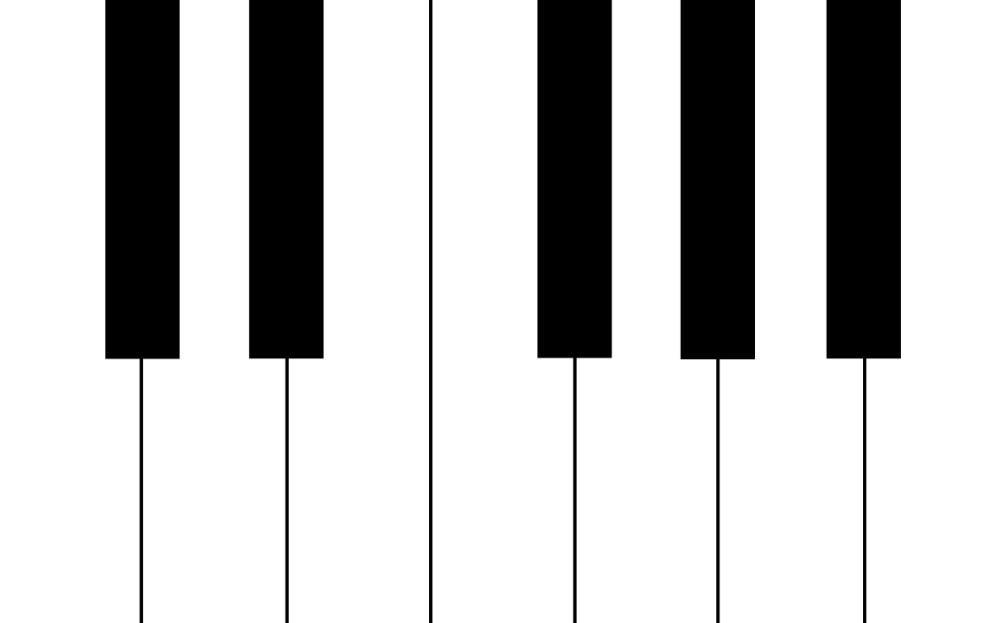
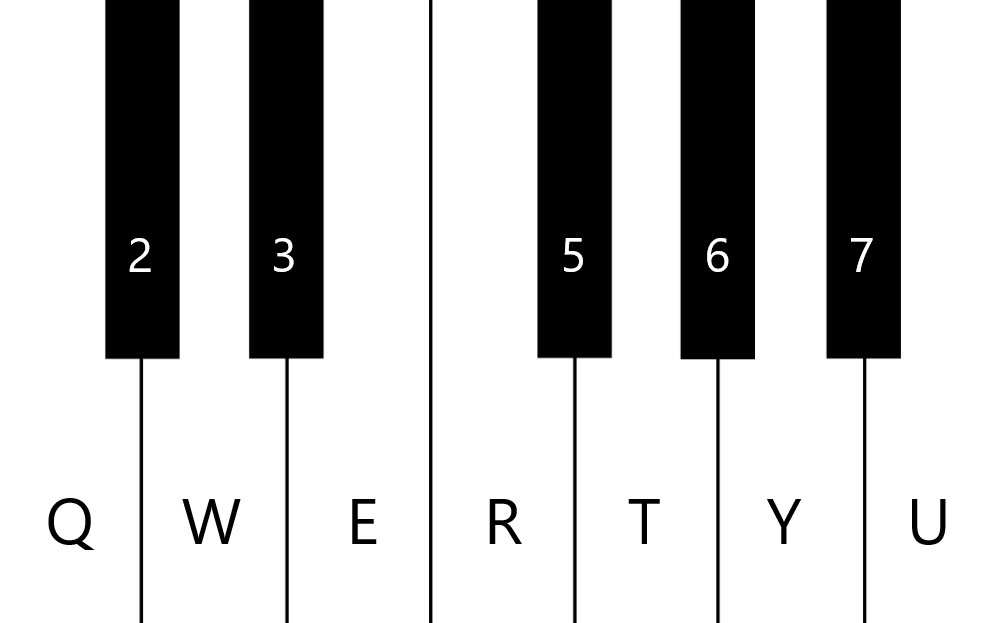
Version 0.2 Added 'Controls' menu, octaves are displayed, and keyboard controlls fixed

diff --git a/game.py b/game.py
@@ -46,6 +46,8 @@ class Game:
             background_color=(89, 115, 158),
             )
 
+    # CREDITS MENU
+
         self.creditsMenu = pygame_menu.Menu('Credits', 600, 600,
                                     theme=self.theme)
         
@@ -53,12 +55,33 @@ class Game:
                              background_color=(180, 191, 209)
                              ,margin=(0, 20)
                              ,padding=(10, 20))
+    
+    # CONTROLS MENU
+        self.controlsMenu = pygame_menu.Menu('Controls', 600, 600,
+                                    theme=self.theme)
+        
+        self.controlsMenu.add.label('Left click the mouse ore use the keyboard:', font_size=30, font_color=(0, 0, 0), 
+                             background_color=(180, 191, 209)
+                             ,margin=(0, 20)
+                             ,padding=(10, 20))
+        
+        self.controlsMenu.add.image('images\piano_keys.jpg', scale=(0.5, 0.5))
+
+        self.controlsMenu.add.label('Use left and right arrow to change the piano\'s octave', font_size=25, font_color=(0, 0, 0), 
+                             background_color=(180, 191, 209)
+                             ,margin=(0, 20)
+                             ,padding=(10, 20))
         
 
+    # HOME MENU
         self.homeMenu = pygame_menu.Menu('PIANO SIMULATOR', 600, 600,
                                     theme=self.theme)
         
         self.homeMenu.add.button('Play', self.play, font_size=30, font_color=(0, 0, 0), 
+                             background_color=(180, 191, 209)
+                             ,margin=(0, 20)
+                             ,padding=(10, 20))
+        self.homeMenu.add.button(self.controlsMenu.get_title(), self.controlsMenu, font_size=30, font_color=(0, 0, 0), 
                              background_color=(180, 191, 209)
                              ,margin=(0, 20)
                              ,padding=(10, 20))
@@ -86,11 +109,6 @@ class Game:
         self.active_note_time = 0  # Store the time when the note was activated
 
         self.catHitbox = pygame.draw.rect(self.screen, (0, 0, 0), (self.width - 250, 50, 200, 200), 2)
-
-    # CARICAMENTO IMMAGINE PIANO
-
-        # pianoImg = pygame.image.load("images/piano_keys.jpg")
-        # pianoImg = pygame.transform.scale(pianoImg, (900, 300))
 
     # LOOP PRINCIPALE
 
@@ -189,34 +207,30 @@ class Game:
 
         
         # MAPPA TASTI
-
-            if key_just_pressed(pygame.K_q):
-                note_name = f"C{sound_height}"
-                self.active_note = (tiles[0][1], tiles[0][2])  # Activate C note
-            elif key_just_pressed(pygame.K_2):
-                note_name = f"Db{sound_height}"
-            elif key_just_pressed(pygame.K_w):
-                note_name = f"D{sound_height}"
-            elif key_just_pressed(pygame.K_3):
-                note_name = f"Eb{sound_height}"
-            elif key_just_pressed(pygame.K_e):
-                note_name = f"E{sound_height}"
-            elif key_just_pressed(pygame.K_r):
-                note_name = f"F{sound_height}"
-            elif key_just_pressed(pygame.K_5):
-                note_name = f"Gb{sound_height}"
-            elif key_just_pressed(pygame.K_t):
-                note_name = f"G{sound_height}"
-            elif key_just_pressed(pygame.K_6):
-                note_name = f"Ab{sound_height}"
-            elif key_just_pressed(pygame.K_y):
-                note_name = f"A{sound_height}"
-            elif key_just_pressed(pygame.K_7):
-                note_name = f"Bb{sound_height}"
-            elif key_just_pressed(pygame.K_u):
-                note_name = f"B{sound_height}"
             
-            if note_name and note_name in self.sounds:
+            if len(tiles) >= 12:
+                key_note_map = [
+                    (pygame.K_q, "C", 0),
+                    (pygame.K_2, "Db", 1),
+                    (pygame.K_w, "D", 2),
+                    (pygame.K_3, "Eb", 3),
+                    (pygame.K_e, "E", 4),
+                    (pygame.K_r, "F", 5),
+                    (pygame.K_5, "Gb", 6),
+                    (pygame.K_t, "G", 7),
+                    (pygame.K_6, "Ab", 8),
+                    (pygame.K_y, "A", 9),
+                    (pygame.K_7, "Bb", 10),
+                    (pygame.K_u, "B", 11),
+                ]
+                for key, note, idx in key_note_map:
+                    if key_just_pressed(key):
+                        note_name = f"{note}{sound_height}"
+                        self.active_note = (tiles[idx][1], tiles[idx][2])
+                        self.active_note_time = pygame.time.get_ticks()
+                        print(f"Key pressed: {note_name}")
+
+            if note_name in self.sounds:
                 self.sounds[note_name].play()
 
         # TRACKING MOUSE 
@@ -235,7 +249,7 @@ class Game:
                             self.sounds[note_name].play()
                         print(note)
                         self.active_note = (points, note)
-                        self.active_note_time = pygame.time.get_ticks()  # Record the activation time
+                        self.active_note_time = pygame.time.get_ticks()
                         pygame.time.delay(200)
 
             if self.active_note:
@@ -243,12 +257,12 @@ class Game:
                 if pygame.time.get_ticks() - self.active_note_time < 300:
 
                     if self.active_note[1] in ["Db", "Eb", "Gb", "Ab", "Bb"]:
-                        pygame.draw.polygon(self.screen, (50, 50, 50), self.active_note[0])  # Fill color
-                        pygame.draw.polygon(self.screen, (0, 0, 0), self.active_note[0], 2)  # Border color
+                        pygame.draw.polygon(self.screen, (50, 50, 50), self.active_note[0])
+                        pygame.draw.polygon(self.screen, (0, 0, 0), self.active_note[0], 2)
                         # pygame.gfxdraw.filled_polygon(self.screen, self.active_note[0], (50, 50, 50))
                     else:
-                        pygame.draw.polygon(self.screen, (240, 240, 240), self.active_note[0])  # Fill color
-                        pygame.draw.polygon(self.screen, (0, 0, 0), self.active_note[0], 2)  # Border color
+                        pygame.draw.polygon(self.screen, (240, 240, 240), self.active_note[0])
+                        pygame.draw.polygon(self.screen, (0, 0, 0), self.active_note[0], 2)
                         # pygame.gfxdraw.filled_polygon(self.screen, self.active_note[0], (240, 240, 240))
  
                 else:
@@ -257,19 +271,21 @@ class Game:
 
         # DISPLAY TASTI PREMUTI
 
-            # Always render the current note name (or blank if none)
-            # Accumulate all played notes in a string
-            
-
             if not hasattr(self, "played_notes"):
-                self.played_notes = ""
+                self.played_notes = []  # List of (note_name, timestamp) tuples
+
+            current_time = pygame.time.get_ticks()
 
             if note_name:
-                self.played_notes += note_name + " "
-            elif len(self.played_notes)>10:
-                self.played_notes = self.played_notes[-10*3:]  # Keep last 10 notes (assuming 2 chars + space each)
+                self.played_notes.append((note_name, current_time))
 
-            display_notes = self.played_notes.strip()
+
+            self.played_notes = [
+                (n, t) for (n, t) in self.played_notes if current_time - t < 2500
+            ]
+
+            # Build display string from remaining notes
+            display_notes = " ".join(n for (n, t) in self.played_notes)
 
             title = font.render(display_notes, True, (0, 0, 0))
             title_rect = title.get_rect(center=(self.width / 2, self.height / 2 - 225))
@@ -280,7 +296,7 @@ class Game:
 
         # CRAZY CAT SECTION WOHOO
 
-            if not hasattr(self, "cat_image"):
+            """ if not hasattr(self, "cat_image"):
                 cats = len([name for name in os.listdir('cat_images') if name.endswith('.png') and os.path.isfile(os.path.join('cat_images', name))])  # number of .png files in the cat_images folder
                 selected_cat = random.randint(1, cats)
                 self.cat_image = pygame.image.load(f"cat_images/cat{selected_cat}.png")
@@ -300,8 +316,25 @@ class Game:
             if pygame.mouse.get_pressed()[0] and self.catHitbox.collidepoint(pygame.mouse.get_pos()):
                 self.meow_sound.stop()
                 self.meow_sound.play()
-                pygame.time.delay(300)
+                pygame.time.delay(300) """
 
+        # PULSANTE MENU
+            menu_button_rect = pygame.Rect(10, 10, 120, 40)
+            pygame.draw.rect(self.screen, (180, 191, 209), menu_button_rect, border_radius=10)
+            pygame.draw.rect(self.screen, (0, 0, 0), menu_button_rect, 2, border_radius=10)
+            button_font = pygame.font.Font(None, 36)
+            button_text = button_font.render("Menu", True, (0, 0, 0))
+            text_rect = button_text.get_rect(center=menu_button_rect.center)
+            self.screen.blit(button_text, text_rect)
+
+            
+            if pygame.mouse.get_pressed()[0] and menu_button_rect.collidepoint(pygame.mouse.get_pos()):
+                self.homeMenu.reset(1)
+                return
+
+        # PULSANTE OTTAVA
+            octave_text = font.render(f"Octave: {sound_height}", True, (0, 0, 0))
+            self.screen.blit(octave_text, (self.width - 200, self.height - 300))
             pygame.display.update()
 
 
